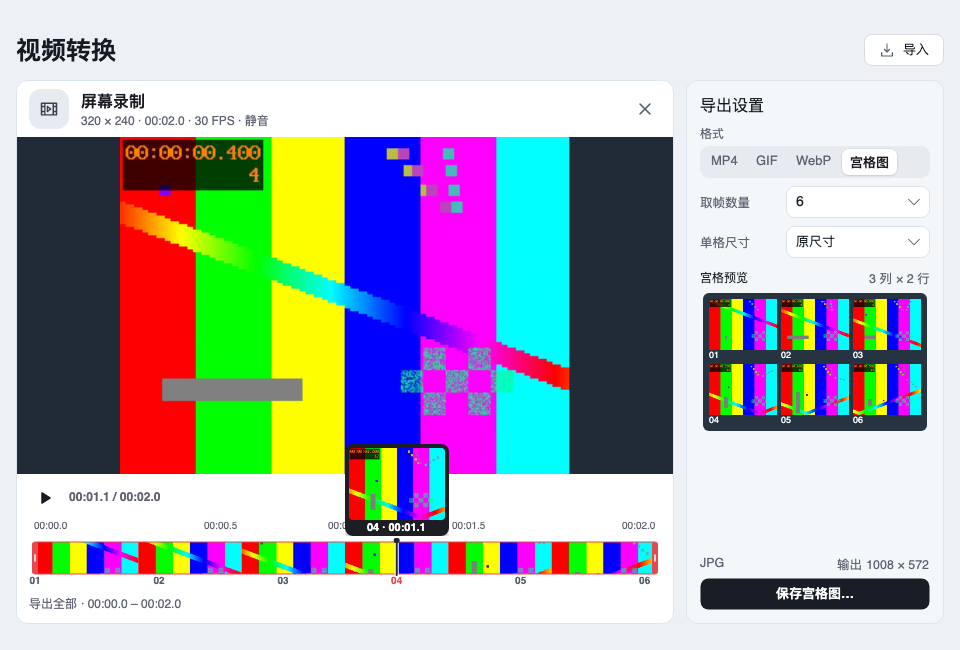
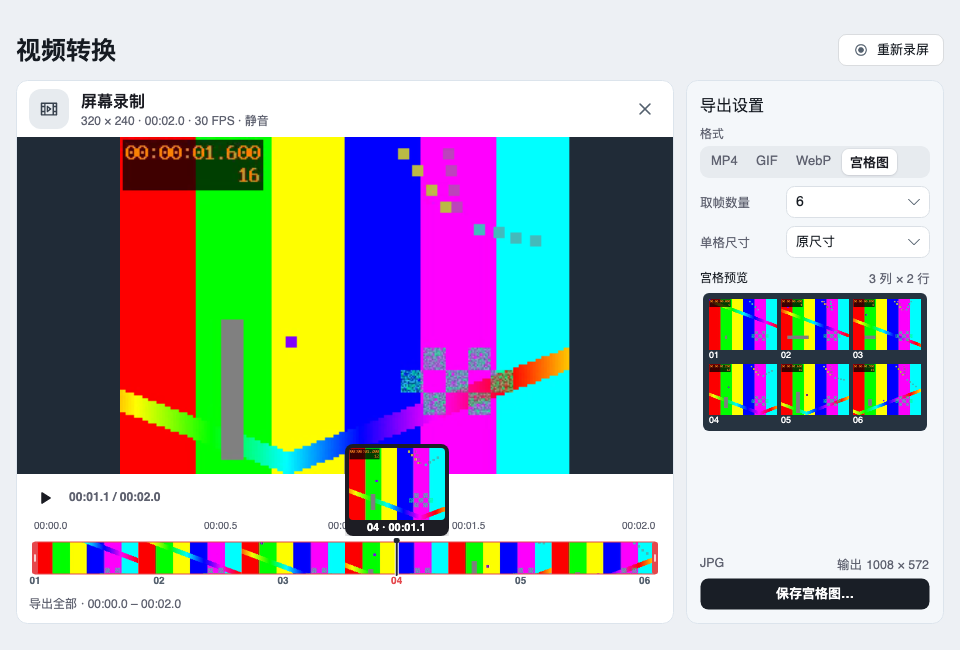
[codex] fix: 录屏预览恢复重新录屏入口 (#135)

diff --git a/src/Tbox.Desktop/Views/VideoConverterView.cs b/src/Tbox.Desktop/Views/VideoConverterView.cs
@@ -18,7 +18,7 @@ internal sealed class VideoConverterView : UserControl
     private readonly Func<Task> _savedRecording;
     private readonly ContentControl _body = new() { HorizontalContentAlignment = HorizontalAlignment.Stretch };
     private readonly TextBlock _status = Ui.Description("");
-    private readonly Button _import, _choose;
+    private readonly Button _headerAction, _choose;
     private readonly Control _empty;
     private readonly Rectangle _dropSurface;
     private CancellationTokenSource? _importCancellation;
@@ -27,16 +27,18 @@ internal sealed class VideoConverterView : UserControl
     private bool _reading;
     internal VideoConversionEditor? Editor { get; private set; }
 
-    internal VideoConverterView(DesktopController controller, Func<Task>? savedRecording = null)
+    internal VideoConverterView(DesktopController controller, Func<Task>? savedRecording = null, Func<Task>? restartRecording = null)
     {
         _controller = controller;
         _savedRecording = savedRecording ?? (() => Task.CompletedTask);
-        _import = Ui.Button("导入", () => controller.Run(PickAsync));
-        _import.Content = Ui.Row(new LineIcon(IconKind.Import) { Width = 16, Height = 16 }, new TextBlock { Text = "导入" });
+        var actionLabel = restartRecording is null ? "导入" : "重新录屏";
+        var actionIcon = restartRecording is null ? IconKind.Import : IconKind.Record;
+        _headerAction = Ui.Button(actionLabel, () => controller.Run(restartRecording ?? PickAsync));
+        _headerAction.Content = Ui.Row(new LineIcon(actionIcon) { Width = 16, Height = 16 }, new TextBlock { Text = actionLabel });
         _choose = Ui.Button("选择文件…", () => controller.Run(PickAsync));
         _choose.HorizontalAlignment = HorizontalAlignment.Center;
         var title = Ui.Text("视频转换", 25); title.FontWeight = FontWeight.SemiBold; title.VerticalAlignment = VerticalAlignment.Center;
-        var header = new Grid { ColumnDefinitions = new("*,Auto"), Margin = new Thickness(0, 0, 0, 13), Children = { title, Ui.Column(_import, 1) } };
+        var header = new Grid { ColumnDefinitions = new("*,Auto"), Margin = new Thickness(0, 0, 0, 13), Children = { title, Ui.Column(_headerAction, 1) } };
         var options = Ui.Text("导出设置", 16); options.FontWeight = FontWeight.SemiBold;
         var save = Ui.Primary("保存视频…", () => { }); save.IsEnabled = false;
         save.HorizontalAlignment = HorizontalAlignment.Stretch; save.HorizontalContentAlignment = HorizontalAlignment.Center;
@@ -217,6 +219,6 @@ internal sealed class VideoConverterView : UserControl
     private void SetBusy(bool busy)
     {
         _busy = busy || _reading;
-        _import.IsEnabled = _choose.IsEnabled = !_busy && !_closing;
+        _headerAction.IsEnabled = _choose.IsEnabled = !_busy && !_closing;
     }
 }

diff --git a/src/Tbox.Desktop/Views/RecordingReviewWindow.cs b/src/Tbox.Desktop/Views/RecordingReviewWindow.cs
@@ -12,7 +12,7 @@ internal sealed class RecordingReviewWindow : Window
 {
     private readonly VideoConverterView _converter;
     private Task<bool>? _closeRequest;
-    private bool _allowClose;
+    private bool _allowClose, _restarting;
 
     internal static IReadOnlyList<RecordingExportFormat> Formats => VideoConversionEditor.Formats;
     private VideoConversionEditor Editor => _converter.Editor!;
@@ -31,7 +31,8 @@ internal sealed class RecordingReviewWindow : Window
         Ui.Configure(this, "视频转换", 960, 650);
         MinWidth = 480; MinHeight = 395;
         Ui.ExtendIntoTitleBar(this);
-        _converter = new VideoConverterView(controller, async () => { await RequestCloseAsync(); }) { Margin = new Thickness(16, 32, 16, 14) };
+        _converter = new VideoConverterView(controller, savedRecording: async () => { await RequestCloseAsync(); }, restartRecording: RestartAsync)
+            { Margin = new Thickness(16, 32, 16, 14) };
         _converter.SetSource(workspace, new(output.FilePath, "屏幕录制", new(area.PixelWidth, area.PixelHeight),
             duration, RecordingFrameRatePolicy.RecordingFrameRate, output.HasSystemAudio, true));
         Content = new ScrollViewer { Content = _converter, HorizontalScrollBarVisibility = ScrollBarVisibility.Disabled };
@@ -44,6 +45,17 @@ internal sealed class RecordingReviewWindow : Window
             args.Handled = true;
             controller.Run(async () => { await RequestCloseAsync(); });
         };
+        async Task RestartAsync()
+        {
+            if (_restarting) return;
+            _restarting = true;
+            try
+            {
+                if (await RequestCloseAsync()) await controller.StartRecordingAsync(area, restoreForeground);
+            }
+            finally { _restarting = false; }
+        }
+
     }
 
     public async Task<bool> RequestCloseAsync(bool discardUnsaved = false)

diff --git a/tests/Tbox.Desktop.Tests/SettingsTests.cs b/tests/Tbox.Desktop.Tests/SettingsTests.cs
@@ -44,6 +44,12 @@ public sealed class SettingsTests
                     Assert.False(string.IsNullOrWhiteSpace(banner.Title.Text));
                     Assert.Equal(DesignTokens.PageTitle, banner.Title.FontSize);
                 }
+                if (page == MainPage.VideoConverter)
+                {
+                    var actions = window.CurrentPageView.GetVisualDescendants().OfType<Button>().Select(AutomationProperties.GetName);
+                    Assert.Contains("导入", actions);
+                    Assert.DoesNotContain("重新录屏", actions);
+                }
                 // Model-service fields are intentional inputs, not the removed application-search box.
                 if (page is not (MainPage.Settings or MainPage.Translation))
                     Assert.DoesNotContain(window.GetVisualDescendants().OfType<TextBox>(), t => t.IsEffectivelyVisible);

diff --git a/tests/Tbox.Desktop.Tests/TaskToolbarTests.cs b/tests/Tbox.Desktop.Tests/TaskToolbarTests.cs
@@ -1005,6 +1005,8 @@ public sealed class TaskToolbarTests
         bool Shows(string text) => review.GetVisualDescendants().OfType<TextBlock>().Any(t => t.IsEffectivelyVisible && t.Text == text);
         try
         {
+            Assert.True(Chip("重新录屏").IsEffectivelyVisible);
+            Assert.DoesNotContain(review.GetVisualDescendants().OfType<Button>(), b => AutomationProperties.GetName(b) == "导入");
             Assert.True(Shows("2560 × 1440 · 00:42.0 · 30 FPS · 静音"));
             Assert.True(Shows("导出全部 · 00:00.0 – 00:42.0"));
             Assert.Equal(["MP4", "GIF", "WebP", "宫格图"], RecordingReviewWindow.Formats.Select(f => AutomationProperties.GetName(Chip(f switch
